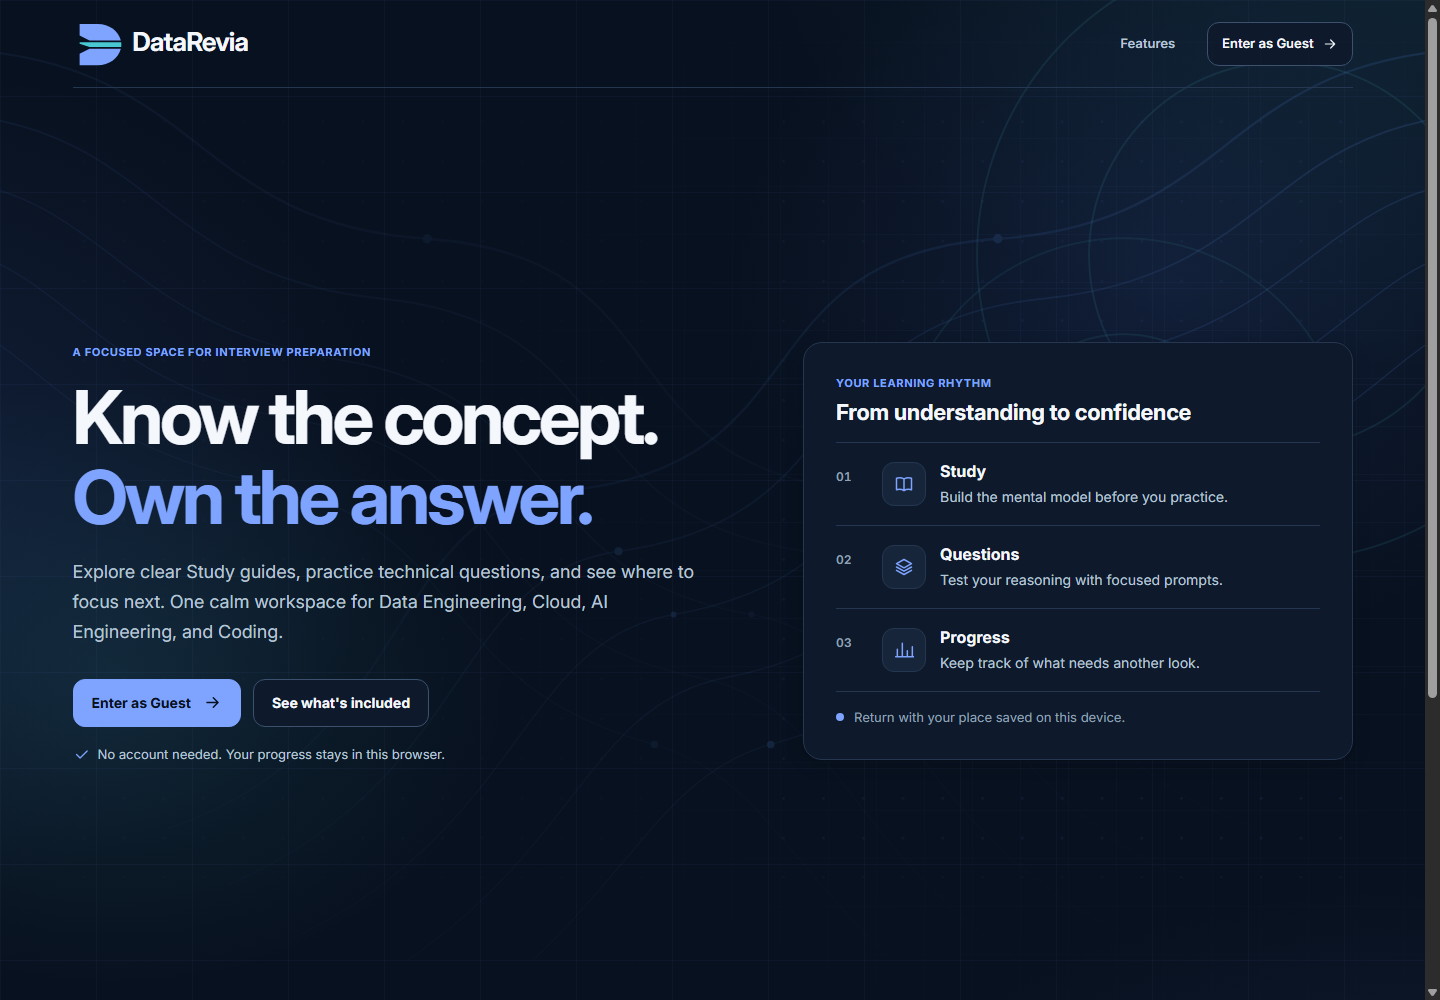
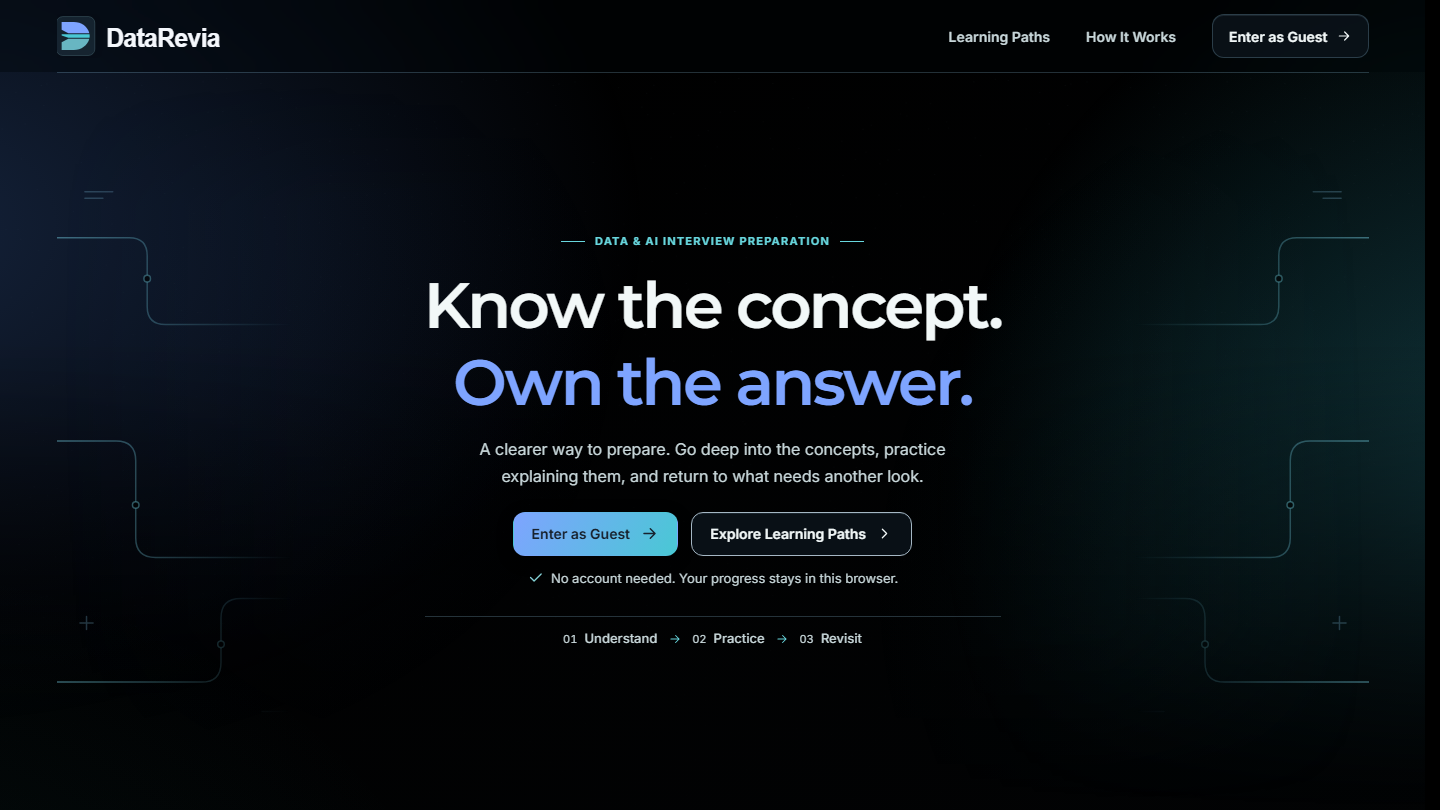
fix(portfolio): refresh project visuals with consistent previews

diff --git a/src/styles.css b/src/styles.css
@@ -664,6 +664,8 @@ summary::marker {
   background: var(--surface);
 }
 .project-visual {
+  --preview-height: 480px;
+  --preview-inset: 40px;
   position: relative;
   min-height: 420px;
   overflow: hidden;
@@ -826,14 +828,17 @@ summary::marker {
 }
 .browser-frame {
   position: absolute;
-  left: 45px;
-  top: 87px;
-  width: 600px;
+  left: 50%;
+  top: 50%;
+  width: min(
+    calc(100% - var(--preview-inset) * 2),
+    calc((var(--preview-height) - 186px) * 16 / 9)
+  );
   border: 1px solid #f9f6ee;
   border-radius: 12px;
   overflow: hidden;
   box-shadow: 0 28px 45px #66544035;
-  transform: rotate(-3deg);
+  transform: translate(-50%, -50%) rotate(-3deg);
   transition: transform 0.5s;
 }
 .browser-bar {
@@ -856,11 +861,13 @@ summary::marker {
   margin-left: 25px;
 }
 .browser-frame img {
-  width: 600px;
+  width: 100%;
   height: auto;
+  aspect-ratio: 16 / 9;
+  object-fit: contain;
 }
 .project-visual:hover .browser-frame {
-  transform: translateY(-5px) rotate(-1deg);
+  transform: translate(-50%, calc(-50% - 5px)) rotate(-1deg);
 }
 .local-projects {
   margin-top: 64px;
@@ -902,15 +909,18 @@ summary::marker {
   margin-bottom: 30px;
 }
 .tool-symbol {
-  width: 38px;
-  height: 38px;
-  background: var(--soft);
-  color: var(--accent);
-  border-radius: 9px;
+  width: 44px;
+  height: 44px;
+  flex-shrink: 0;
+  border-radius: 11px;
+  overflow: hidden;
   display: grid;
   place-items: center;
-  font-size: 22px;
-  font-family: Consolas, monospace;
+}
+.tool-symbol img {
+  width: 100%;
+  height: 100%;
+  object-fit: contain;
 }
 .local-project-top .section-kicker {
   margin: 0;
@@ -1842,14 +1852,6 @@ summary::marker {
   .featured-project {
     grid-template-columns: 1fr 1fr;
   }
-  .browser-frame {
-    left: 30px;
-    top: 100px;
-    width: 510px;
-  }
-  .browser-frame img {
-    width: 510px;
-  }
   .local-project-card {
     padding: 25px;
   }
@@ -2184,13 +2186,9 @@ summary::marker {
     width: 17px;
     height: 17px;
   }
-  .browser-frame {
-    top: 55px;
-    left: 35px;
-    width: 450px;
-  }
-  .browser-frame img {
-    width: 450px;
+  .project-visual {
+    --preview-height: 330px;
+    --preview-inset: 28px;
   }
   .project-copy {
     padding: 27px;
@@ -2669,9 +2667,7 @@ summary::marker {
   background: radial-gradient(ellipse at 25% 20%, #605177, #373041 70%);
 }
 .datarevia-art .browser-frame {
-  transform: rotate(3deg);
-  top: 95px;
-  left: 42px;
+  transform: translate(-50%, -50%) rotate(3deg);
 }
 .datarevia-art .browser-bar {
   background: #202638;
@@ -2683,15 +2679,11 @@ summary::marker {
   color: #a9afbe;
 }
 .project-visual:hover .datarevia-art .browser-frame {
-  transform: translateY(-5px) rotate(1deg);
+  transform: translate(-50%, calc(-50% - 5px)) rotate(1deg);
 }
 @media (max-width: 760px) {
   .datarevia-art {
     min-height: 330px;
-  }
-  .datarevia-art .browser-frame {
-    top: 57px;
-    left: 27px;
   }
 }
 @media (max-width: 600px) {

diff --git a/src/content/portfolio.ts b/src/content/portfolio.ts
@@ -17,6 +17,8 @@ export type Project = {
   technologies: string[];
   repository?: string;
   demo?: string;
+  icon?: string;
+  preview?: { src: string; width: number; height: number; alt: string };
 };
 
 export type ArchitecturePattern = {
@@ -143,6 +145,12 @@ export const liveProjects = [
     ],
     technologies: ["Firebase", "Web", "Android"],
     demo: "https://nevri-notes.web.app/",
+    preview: {
+      src: "./images/nevri-preview.webp",
+      width: 1440,
+      height: 810,
+      alt: "NEVRI homepage hero with its complete notes workspace preview",
+    },
   },
   {
     name: "DataRevia",
@@ -157,6 +165,12 @@ export const liveProjects = [
     ],
     technologies: ["React", "TypeScript", "IndexedDB"],
     demo: "https://datarevia.sattylabs.workers.dev/",
+    preview: {
+      src: "./images/datarevia-preview.webp",
+      width: 1440,
+      height: 810,
+      alt: "DataRevia homepage introducing its technical interview learning workspace",
+    },
   },
 ] satisfies (Project & { demo: string })[];
 
@@ -174,6 +188,7 @@ export const localProjects = [
     ],
     technologies: ["Multi-Agent Systems", "MCP", "Developer Tooling"],
     repository: "https://github.com/Satyajit-Senapati/Orqalis",
+    icon: "./images/orqalis-icon.svg",
   },
   {
     name: "PracticeLab",
@@ -188,6 +203,7 @@ export const localProjects = [
     ],
     technologies: ["Python", "Pyodide", "Node.js", "Browser Workers"],
     repository: "https://github.com/Satyajit-Senapati/PracticeLab",
+    icon: "./images/practicelab-icon.svg",
   },
 ] satisfies (Project & { repository: string })[];
 

diff --git a/src/App.tsx b/src/App.tsx
@@ -409,10 +409,10 @@ function Projects() {
                       <small>{new URL(project.demo).hostname}</small>
                     </div>
                     <img
-                      src={`./images/${project.name === "DataRevia" ? "datarevia" : "nevri"}-preview.webp`}
-                      width="1200"
-                      height="833"
-                      alt={`Visit ${project.name} website`}
+                      src={project.preview.src}
+                      width={project.preview.width}
+                      height={project.preview.height}
+                      alt={project.preview.alt}
                       loading="lazy"
                     />
                   </div>
@@ -474,7 +474,13 @@ function Projects() {
               <article className="local-project-card reveal" key={project.name}>
                 <div className="local-project-top">
                   <span className="tool-symbol" aria-hidden="true">
-                    {index === 0 ? "⌘" : ">_"}
+                    <img
+                      src={project.icon}
+                      width="44"
+                      height="44"
+                      alt=""
+                      loading="lazy"
+                    />
                   </span>
                   <span className="section-kicker">
                     {index === 0 ? "ORCHESTRATION" : "HANDS-ON PRACTICE"}

diff --git a/docs/architecture.md b/docs/architecture.md
@@ -12,6 +12,8 @@ The page moves from personal identity to selected products, about, capabilities,
 
 The interface uses ink surfaces, soft lilac, and warm ivory. Self-hosted Manrope provides a consistent type hierarchy. The selected Woven Initials logo and a custom digital avatar create a personal identity. Orbital linework around the portrait, restrained ambient light, and a dotted architecture canvas add texture without competing with content. Featured products use real public website captures in browser frames.
 
+Project content declares screenshot dimensions and descriptions, plus the local products' original SVG icons. Both featured captures use a 1440 × 810 (16:9) viewport and the same responsive browser-frame sizing. The full screenshots fit within the artwork across breakpoints without stretching or clipping. NEVRI's capture is limited to its full two-column hero and header.
+
 Theme colors are CSS custom properties. The content width is capped at 1240px. At 1050px, the navigation becomes a menu to avoid a cramped tablet header. At 760px, the hero and project rows become vertical, architecture stages become a sequence, and contact is simplified. Below 600px, expertise uses one column for readable descriptions and technologies. All layouts work down to 320px.
 
 The body fits the available document width, including the space occupied by non-overlay scrollbars at a 320px viewport. Header controls precede the navigation links in document and visual order, so opening the compact menu keeps its links next in the forward Tab sequence. The `#top` anchor belongs to the stationary page wrapper; the header remains sticky inside it. Header and footer top links therefore return to the document start.

diff --git a/docs/design-research.md b/docs/design-research.md
@@ -47,4 +47,8 @@ The social preview in `public/og.png` is a dedicated 1200 × 630 ink-and-lilac c
 
 The preview images are browser captures of the owner’s public [DataRevia](https://datarevia.sattylabs.workers.dev/) and [NEVRI](https://nevri-notes.web.app/) sites. DataRevia replaces the former InterviewOS name and URL. NEVRI’s description reflects its published web availability and Android testing status.
 
+The captures were refreshed on 2026-10-09 in Chromium at a shared 1440 × 810 (16:9) viewport, after fonts and images loaded. NEVRI includes the header and both hero columns, with a bottom gutter and no following section. DataRevia shows its current centered introduction. PNG originals and WebP delivery copies live in `public/images/`; their dimensions and descriptions are declared in project content. Both browser frames use the same responsive dimensions and scale the complete screenshots without stretching or clipping.
+
+The local project icons use the owner's original SVG assets, copied without changing their colors or geometry: Orqalis from `web/public/assets/orqalis.svg` in its repository, and PracticeLab from `docs/assets/practice-lab-mark.svg` in its repository. Portfolio delivery copies are `public/images/orqalis-icon.svg` and `public/images/practicelab-icon.svg`.
+
 Manrope is self-hosted from Google Fonts. Its SIL Open Font License is included at `public/fonts/OFL.txt`.
